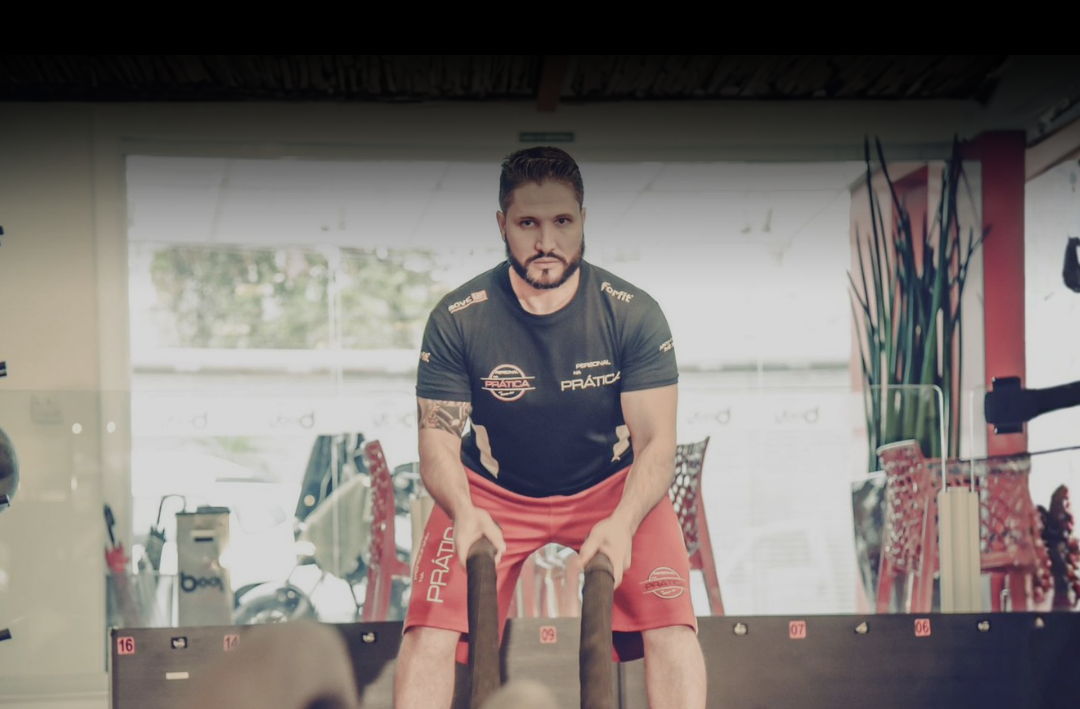
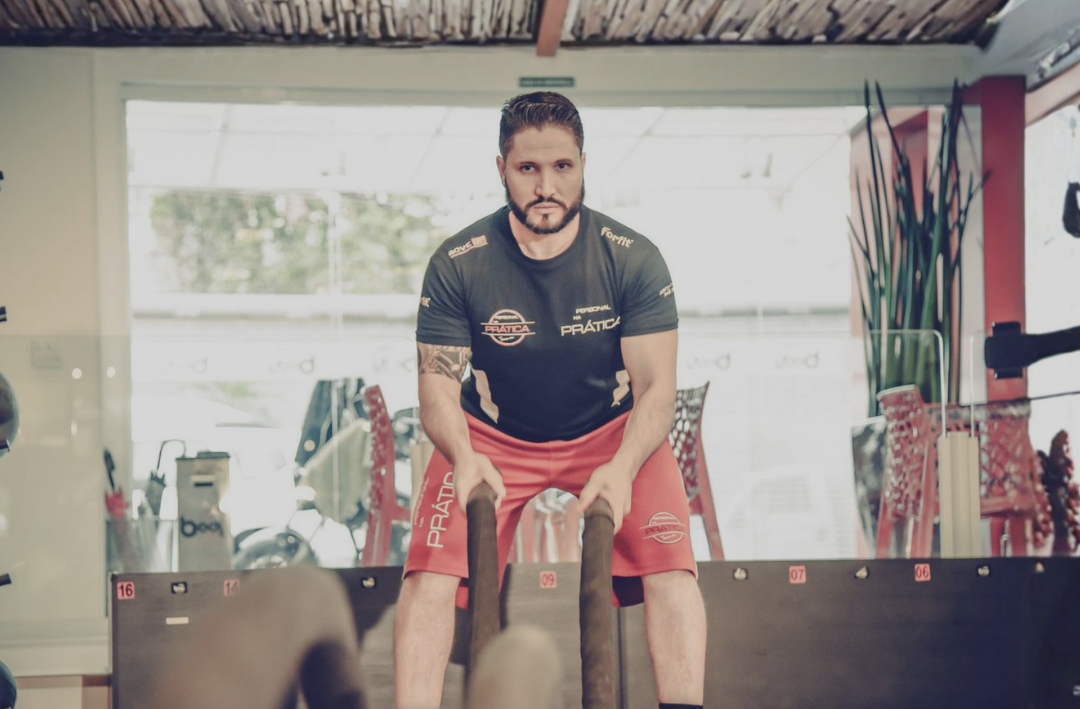
altera responsividade de imagem seção quem é o mentor

diff --git a/styles.css b/styles.css
@@ -827,6 +827,27 @@ p {
   align-items: center;
 }
 
+.expert-mobile-image {
+  display: none;
+}
+
+.expert-mobile-image img {
+  width: 100%;
+  max-width: 520px;
+  margin: 0 auto var(--space-md);
+  border-radius: var(--radius-md);
+}
+
+.expert-info > span:first-child {
+  display: inline-block;
+  font-size: 0.8rem;
+  font-weight: 700;
+  color: var(--red-primary);
+  text-transform: uppercase;
+  letter-spacing: 0.15em;
+  margin-bottom: var(--space-sm);
+}
+
 .expert-info {
   max-width: 560px;
 }
@@ -847,6 +868,16 @@ p {
     grid-template-columns: 1fr;
     justify-items: end;
     min-height: clamp(520px, 55vw, 720px);
+  }
+}
+
+@media (max-width: 1024px) {
+  .expert-mobile-image {
+    display: block;
+  }
+
+  .expert-info {
+    margin: 0 auto;
   }
 }
 

diff --git a/index.html b/index.html
@@ -367,6 +367,9 @@
     <div class="container">
       <div class="expert-grid animate-on-scroll">
         <div class="expert-info">
+          <div class="expert-mobile-image">
+            <img src="assets/secao-conheca-o-rodrigo-mobile.png" alt="">
+          </div>
           <span>Seu mentor</span>
           <h2>Conheça <span class="text-red">Rodrigo Assi</span></h2>
           <p>
